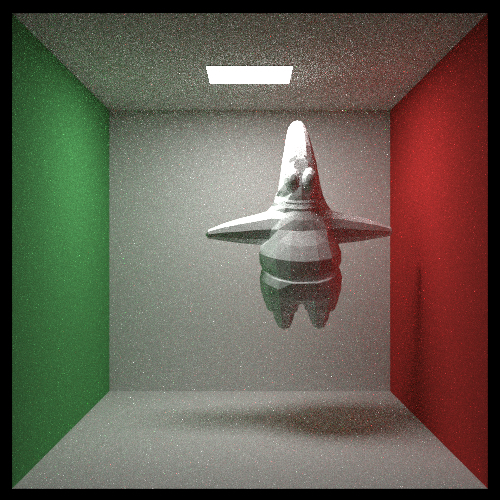
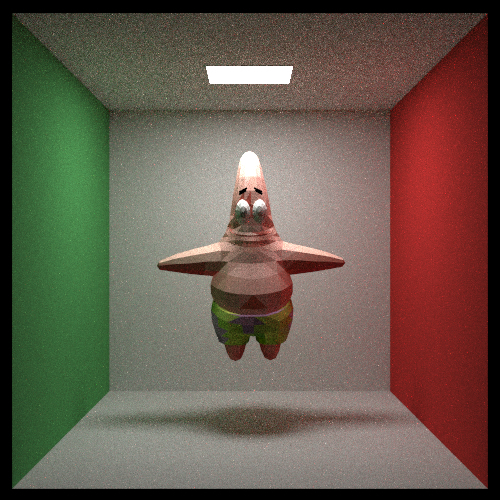
impl material for 派大星

diff --git a/raytracer/src/scene.rs b/raytracer/src/scene.rs
@@ -14,7 +14,7 @@ use crate::{
         FlipFace, HittableList, RotateY, Translate, Zoom,
     },
     material::{Dielectric, DiffuseLight, Lambertian, Metal},
-    texture::{CheckerTexture, ImageTexture, NoiseTexture},
+    texture::{CheckerTexture, ImageTexture, NoiseTexture, ObjTexture},
 };
 
 #[allow(dead_code)]
@@ -400,10 +400,14 @@ pub fn final_scene() -> HittableList {
 }
 
 fn get_object(world: &mut HittableList) {
+
+    let file_name = "source/obj/patrick.obj";
+    let file_jpg = "source/obj/patrick.png";
+
     let obj = tobj::load_obj(
-        "source/obj/patrick.obj",
+        file_name,
         &tobj::LoadOptions {
-            single_index: false,
+            single_index: true,
             triangulate: true,
             ..Default::default()
         },
@@ -436,17 +440,27 @@ fn get_object(world: &mut HittableList) {
         let mut object = HittableList::default();
 
         for v in 0..mesh.indices.len() / 3 {
-            let x = vertices[mesh.indices[v * 3] as usize];
-            let y = vertices[mesh.indices[v * 3 + 1] as usize];
-            let z = vertices[mesh.indices[v * 3 + 2] as usize];
-            let tri = Triangle::new(x, y, z, Lambertian::new(Color::new(0.78, 0.78, 0.78)));
+            let x = mesh.indices[v * 3] as usize;
+            let y = mesh.indices[v * 3 + 1] as usize;
+            let z = mesh.indices[v * 3 + 2] as usize;
+
+            let u1 = mesh.texcoords[(x * 2)];
+            let v1 = mesh.texcoords[(x * 2 + 1)];
+            let mat1 = ObjTexture::new(u1 as f64, v1 as f64, file_jpg);
+
+            let tri = Triangle::new(
+                vertices[x],
+                vertices[y],
+                vertices[z],
+                Lambertian::new_arc(mat1),
+            );
             object.add(Arc::new(tri));
         }
 
         let object = BvhNode::new_list(&object, 0., 1.);
         let object = Zoom::new(object, 200.);
         let object = RotateY::new(object, 180.);
-        let object = Translate::new(object, Vec3::new(200., 150., 300.));
+        let object = Translate::new(object, Vec3::new(278., 100., 300.));
         world.add(Arc::new(object));
     }
 

diff --git a/raytracer/src/texture/mod.rs b/raytracer/src/texture/mod.rs
@@ -1,6 +1,6 @@
 pub mod perlin;
 
-use image::GenericImageView;
+use image::{GenericImageView, RgbImage};
 
 use crate::basic::vec::{Color, Point3};
 use crate::texture::perlin::Perlin;
@@ -132,6 +132,44 @@ impl Texture for ImageTexture {
             pixel[0] as f64 * color_scale,
             pixel[1] as f64 * color_scale,
             pixel[2] as f64 * color_scale,
+        )
+    }
+}
+
+#[derive(Clone)]
+pub struct ObjTexture {
+    pub u: f64,
+    pub v: f64,
+    pub img: RgbImage,
+}
+
+impl ObjTexture {
+    pub fn new(u: f64, v: f64, file_name: &str) -> Self {
+        Self {
+            u,
+            v,
+            img: image::open(file_name).expect("failed").to_rgb8(),
+        }
+    }
+}
+
+impl Texture for ObjTexture {
+    fn value(&self, _u: f64, _v: f64, _p: Point3) -> Color {
+        let mut i = (self.u * ((self.img.width()) as f64)) as i32;
+        let mut j = ((1. - self.v) * ((self.img.height()) as f64)) as i32;
+        if i >= self.img.width() as i32 {
+            i = self.img.width() as i32 - 1;
+        }
+        if j >= self.img.height() as i32 {
+            j = self.img.height() as i32 - 1;
+        }
+        let color_scale = 1.0 / 255.999;
+        let color_pixel = self.img.get_pixel(i as u32, j as u32);
+
+        Point3::new(
+            color_scale * (color_pixel[0] as f64),
+            color_scale * (color_pixel[1] as f64),
+            color_scale * (color_pixel[2] as f64),
         )
     }
 }

diff --git a/README.md b/README.md
@@ -18,11 +18,13 @@
 
 - [x] Book3 
 
-- [ ] Track 5: More Code Generation 在过程宏中，读取文件，直接从 yaml 或 JSON 文件（选择一种即可）生成场景对应的程序。
+- [x] rack 1: Reduce Contention 
 
-- [ ] Track 8: Support for obj 支持载入obj文件并渲染。
+- [x] rack 2: Static Dispatch 
 
-- [ ] 光栅化 (Unity Shader入门精要)
+- [x] rack 4: PDF Static Dispatch
+
+- [x] rack 8: Support for obj
  
 
 ## 课程介绍
